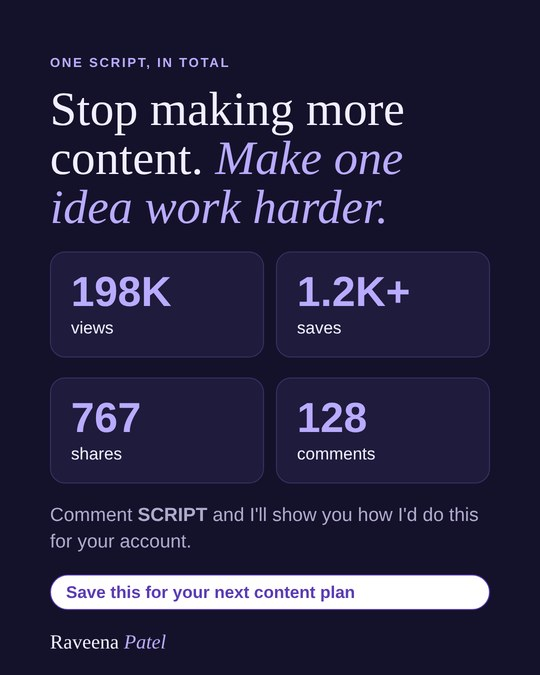
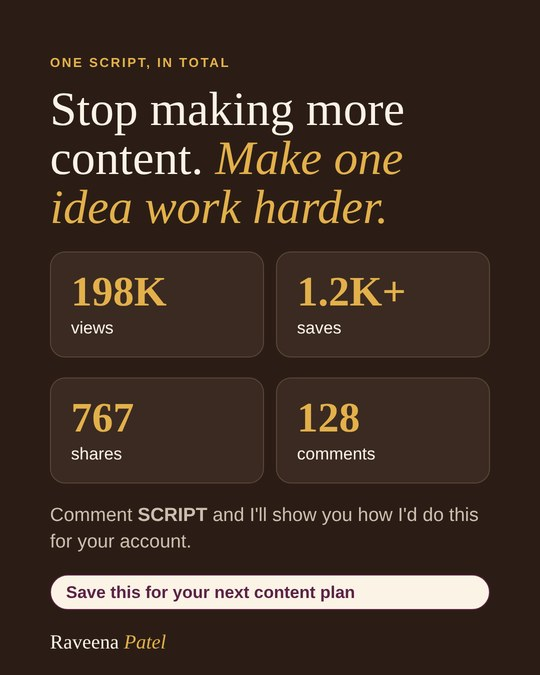
Case study: stat-led win layout; carousel slides in brand kit colours
Claude-Session: https://claude.ai/code/session_01B9oRtZ2cb7dERB82hY3yGr

diff --git a/index.html b/index.html
@@ -154,6 +154,28 @@ section { padding-top: 84px; }
 
 img.slide { aspect-ratio: 4 / 5; flex: 0 0 min(260px, 72%); padding: 0; display: block; object-fit: cover; border-radius: 18px; border: 1px solid var(--line); }
 
+/* Win block: reusable layout for each case study */
+.win { background: var(--surface); border: 1px solid var(--line); border-radius: 24px; padding: 40px; }
+.win-head .section-title { margin-bottom: 12px; }
+.win-sub { color: var(--muted); font-size: 18px; max-width: 60ch; margin: 0 0 28px; }
+.split { display: flex; height: 64px; border-radius: 14px; overflow: hidden; border: 1px solid var(--line); }
+.seg { display: flex; align-items: center; justify-content: space-between; padding: 0 20px; color: var(--on-accent); min-width: 0; font-size: 14px; gap: 10px; }
+.seg b { font-family: "Fraunces", Georgia, serif; font-weight: 600; font-size: 26px; }
+.seg-a { background: var(--accent); }
+.seg-b { background: var(--teal); }
+.win-stats { display: grid; grid-template-columns: repeat(4, minmax(0,1fr)); gap: 14px; margin: 24px 0; }
+.ws { border-top: 2px solid var(--saffron); padding-top: 12px; min-width: 0; }
+.ws b { display: block; font-family: "Fraunces", Georgia, serif; font-weight: 600; font-size: 40px; line-height: 1; color: var(--accent); }
+.ws span { display: block; font-size: 14px; color: var(--muted); margin-top: 6px; line-height: 1.4; }
+.how { border-top: 1px solid var(--line); padding: 18px 0 0; margin-top: 8px; }
+.how summary { cursor: pointer; font-weight: 700; color: var(--accent); font-size: 16px; }
+.how ol { margin: 14px 0 0; padding-left: 20px; }
+.how li { margin-bottom: 8px; color: var(--fg); }
+.gallery { display: flex; gap: 12px; overflow-x: auto; scroll-snap-type: x mandatory; margin-top: 24px; padding-bottom: 6px; }
+.g-thumb { flex: 0 0 150px; aspect-ratio: 4 / 5; object-fit: cover; border-radius: 12px; border: 1px solid var(--line); scroll-snap-align: start; }
+@media (max-width: 860px) { .win-stats { grid-template-columns: repeat(2, minmax(0,1fr)); } }
+@media (max-width: 480px) { .win { padding: 24px; } .ws b { font-size: 32px; } .g-thumb { flex-basis: 120px; } }
+
 /* Experience timeline: sticky year rail on the left, newest first */
 .exp { display: grid; grid-template-columns: 170px minmax(0, 1fr); gap: 36px; }
 .rail { position: sticky; top: 28px; align-self: start; }
@@ -511,18 +533,41 @@ footer { padding-block: 0 40px; font-size: 14px; color: var(--muted); }
     </div>
   </section>
 
+  <!-- WIN BLOCK: copy this block for each new win. Change the numbers, the split bar, the steps, and the slides. -->
   <section id="case" aria-labelledby="case-title">
     <p class="label">Case study · 2026</p>
-    <h2 id="case-title" class="section-title display">Carousels that <em>took off.</em></h2>
-    <div class="carousel" id="carousel" aria-label="Carousel slides, swipe to read">
-      <img class="slide" src="assets/carousel-1.jpg" alt="Hook: one script, 198K views across a carousel and a reel">
-      <img class="slide" src="assets/carousel-2.jpg" alt="The carousel: 152K views and 1K saves">
-      <img class="slide" src="assets/carousel-3.jpg" alt="The reel: 46K views in under a day">
-      <img class="slide" src="assets/carousel-4.jpg" alt="Why it worked: 73.4% of carousel viewers already followed, 84.5% of reel viewers did not">
-      <img class="slide" src="assets/carousel-5.jpg" alt="The research behind the script, in four steps">
-      <img class="slide" src="assets/carousel-6.jpg" alt="One script in total, with a call to action to comment SCRIPT">
-    </div>
-    <div class="dots" id="dots" aria-hidden="true"></div>
+    <article class="win">
+      <header class="win-head">
+        <h2 id="case-title" class="section-title display">One script. <em>198K views.</em></h2>
+        <p class="win-sub">Used twice, once as a carousel and once as a reel. The carousel did most of the work.</p>
+      </header>
+
+      <div class="split" role="img" aria-label="Carousel 152K views, reel 46K views">
+        <div class="seg seg-a" style="flex:152"><span>Carousel</span><b>152K</b></div>
+        <div class="seg seg-b" style="flex:46"><span>Reel</span><b>46K</b></div>
+      </div>
+
+      <div class="win-stats">
+        <div class="ws"><b>1K</b><span>saves on the carousel</span></div>
+        <div class="ws"><b>626</b><span>sends on the carousel</span></div>
+        <div class="ws"><b>31.5%</b><span>reel skip rate, lower than usual</span></div>
+        <div class="ws"><b>0.4%</b><span>reel share rate, higher than usual</span></div>
+      </div>
+
+      <details class="how">
+        <summary>How I did it</summary>
+        <ol>
+          <li><strong>Study the brand.</strong> What it stands for and what's already working.</li>
+          <li><strong>Study the niche.</strong> The topics people keep sending each other.</li>
+          <li><strong>Study the audience.</strong> What they feel, and what they'd save for later.</li>
+          <li><strong>Write once, use twice.</strong> One script, cut as a reel and designed as a carousel.</li>
+        </ol>
+      </details>
+
+      <div class="gallery" aria-label="Carousel slides">
+        <img src="assets/carousel-1.jpg" alt="Slide 1 of the carousel win" class="g-thumb"><img src="assets/carousel-2.jpg" alt="Slide 2 of the carousel win" class="g-thumb"><img src="assets/carousel-3.jpg" alt="Slide 3 of the carousel win" class="g-thumb"><img src="assets/carousel-4.jpg" alt="Slide 4 of the carousel win" class="g-thumb"><img src="assets/carousel-5.jpg" alt="Slide 5 of the carousel win" class="g-thumb"><img src="assets/carousel-6.jpg" alt="Slide 6 of the carousel win" class="g-thumb">
+      </div>
+    </article>
   </section>
 
   <section id="live" aria-labelledby="live-title">
